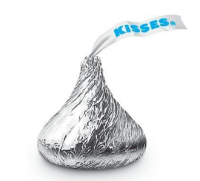
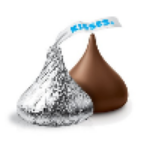
almost done

diff --git a/index.html b/index.html
@@ -28,9 +28,10 @@
         </div>
         <div class="navbar-collapse collapse">
             <ul class="nav navbar-nav navbar-right">
-                <li><a href="#header">home</a></li>
-                <li><a href="#services">Why shop at candy island?</a></li>
+                <li><a href="#header">Candy Island</a></li>
+                <li><a href="#services">Why shop at Candy Island?</a></li>
                 <li><a href="#pricing">Shop our candy</a></li>
+                <li><a href="#gifts">Need a gift?</a></li>
                 <li><a href="#team">Meet our team</a></li>
                 <li><a href="#client">Trusted by</a></li>
                 <li><a href="#contact">Contact us</a></li>
@@ -57,7 +58,7 @@
  
  <div id="services" class="services">
      <div class="container">
-         <h2>Why shop at candy island?</h2>
+         <h2>Why shop at Candy Island?</h2>
          <p></p>
          <div class="row">
              <div class="col-lg-3 col-md-3">
@@ -90,36 +91,72 @@
  
 <div id="pricing" class="pricing">
     <div class="container">
+        <div class="row"> 
         <h1>Shop our candy</h1>
-            <p1> There is simply too much candy to price each individually:</p1>
-            <p2>All pieces are $0.50!</p2>
-        <div class="row">
-           
-            <div class="col-lg-3 col-md-3 wow flipInY" data-wow-delay="0.8s">
+            <p> There is simply too much candy to price each individually:<br>All pieces are $0.50!</br></p>
+            <div class="col-lg-3 col-md-3 wow flipInY" data-wow-delay="1.6s">
                 <div class="packages">
                     <h4>Hershey's kisses</h4>
+                    <img src='hersheys kisses.jpg' class="img-square" alt="">
+                   <ul>
+                      <li>description</li>
+                      <li>description</li>
+                      <li>description</li>
+                    </ul>
+                <div>
                     <button class="btn btn-success">buy</button>
                 </div>
+                </div>
             </div>
-            <div class="col-lg-3 col-md-3 wow flipInY" data-wow-delay="1.2s">
+            <div class="col-lg-3 col-md-3 wow flipInY" data-wow-delay="1.6s">
                 <div class="packages">
-                    <h4>Hershey's</h4>
+                    <h4>Hershey's Fun Size</h4>
+                    <img='' class="img-square">
+                    <ul>
+                      <li>description</li>
+                      <li>description</li>
+                      <li>description</li>
+                    </ul>
+                <div>
                     <button class="btn btn-success">buy</button>
+                </div>
+                </div>
+            </div>
+             <div class="col-lg-3 col-md-3 wow flipInY" data-wow-delay="1.6s">
+                <div class="packages">
+                    <h4>Dairy Milk</h4>
+                    <ul>
+                      <li>description</li>
+                      <li>description</li>
+                      <li>description</li>
+                    </ul>
+                <div>
+                    <button class="btn btn-success">buy</button>
+                </div>
+                </div>
             </div>
             <div class="col-lg-3 col-md-3 wow flipInY" data-wow-delay="1.6s">
                 <div class="packages">
                     <h4>Milky Way Bites</h4>
+                     <img="" class="img-square">
+                     <ul>
+                      <li>description</li>
+                      <li>description</li>
+                      <li>description</li>
+                    </ul>
+                <div>
                     <button class="btn btn-success">buy</button>
                 </div>
+                    
+                </div>
             </div>
-            
         </div>
     </div>
 </div>
  
  <!--- End Pricing ---->
  <!--- Gifts ---->
- <div id="pricing" class="pricing">
+ <div id="gifts" class="gifts">
     <div class="container">
         <div class="row">
             <h2>Need A Gift?</h2>
@@ -162,13 +199,13 @@
     <div class="container">
         <div class="row">
             <h2>Meet our team</h2>
-            <p>Lorem Ipsum passages, and more recently with desktop publishing software</p>
+            <p></p>
 
             <div class="col-lg-3 col-md-3">
-                <img src="https://raw.githubusercontent.com/hasratsabit/landing-page/master/images/team/team-1.jpg" class="img-circle" alt="">
-                <h4></h4>
-                <strong>CEO and Founder</strong>
-                <p>Lorem Ipsum passages, and more recently with desktop publishing software</p>
+                <img src='hispanic ceo and founder 2.JPG' class="img-circle" alt="">
+                <h4>Sofia Perez</h4>
+                <strong>Founder and CEO </strong>
+                <p></p>
                 <a href="#"><i class="fa fa-facebook" aria-hidden="true"></i></a>
                 <a href="#"><i class="fa fa-twitter" aria-hidden="true"></i></a>
                 <a href="#"><i class="fa fa-linkedin" aria-hidden="true"></i></a>
@@ -176,10 +213,10 @@
             </div>
 
             <div class="col-lg-3 col-md-3">
-                <img src="https://raw.githubusercontent.com/hasratsabit/landing-page/master/images/team/team-1.jpg" class="img-circle" alt="">
-                <h4> </h4>
-                <strong> </strong>
-                <p>Lorem Ipsum passages, and more recently with desktop publishing software</p>
+                <img src='coo.jpg' class="img-circle" alt="">
+                <h4>Daniel Chang</h4>
+                <strong> Chief Operating Officer </strong>
+                <p></p>
                 <a href="#"><i class="fa fa-facebook" aria-hidden="true"></i></a>
                 <a href="#"><i class="fa fa-twitter" aria-hidden="true"></i></a>
                 <a href="#"><i class="fa fa-linkedin" aria-hidden="true"></i></a>
@@ -187,10 +224,10 @@
             </div>
 
             <div class="col-lg-3 col-md-3">
-                <img src="https://raw.githubusercontent.com/hasratsabit/landing-page/master/images/team/team-1.jpg" class="img-circle" alt="">
-                <h4></h4>
-                <strong>CEO and Founder</strong>
-                <p>Lorem Ipsum passages, and more recently with desktop publishing software</p>
+                <img src='cfo.jpg' class="img-circle" alt="">
+                <h4>Tabeena Ahmed</h4>
+                <strong> Chief Financial Officer </strong>
+                <p></p>
                 <a href="#"><i class="fa fa-facebook" aria-hidden="true"></i></a>
                 <a href="#"><i class="fa fa-twitter" aria-hidden="true"></i></a>
                 <a href="#"><i class="fa fa-linkedin" aria-hidden="true"></i></a>
@@ -198,10 +235,10 @@
             </div>
 
             <div class="col-lg-3 col-md-3">
-                <img src="https://raw.githubusercontent.com/hasratsabit/landing-page/master/images/team/team-1.jpg" class="img-circle" alt="">
-                <h4>John Doe</h4>
-                <strong>CEO and Founder</strong>
-                <p>Lorem Ipsum passages, and more recently with desktop publishing software</p>
+                <img src='marketing manager.JPG' class="img-circle" alt="">
+                <h4>Jason Smith</h4>
+                <strong>Marketing Manager</strong>
+                <p></p>
                 <a href="#"><i class="fa fa-facebook" aria-hidden="true"></i></a>
                 <a href="#"><i class="fa fa-twitter" aria-hidden="true"></i></a>
                 <a href="#"><i class="fa fa-linkedin" aria-hidden="true"></i></a>
@@ -253,7 +290,7 @@
 <div id="contact" class="contact">
     <div class="container">
         <div class="row">
-            <h2>Contact</h2>
+            <h2>Contact us</h2>
             <p></p>
 
             <div class="col-lg-6 col-md-6">
@@ -283,14 +320,43 @@
 </div>
  
  <!-- End Contact -->
+ <!--Contact us-->
+ <div id="footer" class="footer">
+     <div class="container">
+         <div class="row">
+             <div class="col-lg-4 col-md-4">
+                 <h4>Contact Us</h4>
+                 <p><i class="fa fa-home" aria-hidden="true"></i> Planet Candy, 7836 Inverness Street ,Bay Shore, NY 11706</p>
+                 <p><i class="fa fa-phone" aria-hidden="true"></i> +1 (202) 555-0171 </p>
+                 <p><i class="fa fa-globe" aria-hidden="true"></i> contact@candy.com</p>
+             </div>
+             <div class="col-lg-4 col-md-4">
+                 <h4>About</h4>
+                 <p><i class="fa fa-square-o" aria-hidden="true"></i> About Us</p>
+                 <p><i class="fa fa-square-o" aria-hidden="true"></i> Privacy</p>
+                 <p><i class="fa fa-square-o" aria-hidden="true"></i> Terms & Conditions</p>
+             </div>
+             <div class="col-lg-4 col-md-4">
+                 <h4>Stay in touch</h4>
+                 <i class="social fa fa-facebook" aria-hidden="true"></i>
+                 <i class="social fa fa-twitter" aria-hidden="true"></i>
+                <i class="social fa fa-linkedin" aria-hidden="true"></i>
+                <i class="social fa fa-pinterest" aria-hidden="true"></i>
+                <i class="social fa fa-youtube" aria-hidden="true"></i>
+                <i class="social fa fa-github" aria-hidden="true"></i><br>
+                <input type="email" placeholder="Subscribe For Updates"><button class="btn btn-success">Subscribe</button>
+             </div>
+         </div>
+     </div>
+ </div>
+
  
-<!--- Questions ---->
-<div id="Questions" class="Questions">
-    <div class="container">
-        <div class="row">
-            <p> Planet Candy
-              7836 Inverness Street 
-               Bay Shore, NY 11706
-                contact@candy.com 
-                 (202) 555-0171</p>
-<!--- End questions ---->
+<!-- WOW.js -->
+  <script src="https://cdnjs.cloudflare.com/ajax/libs/wow/1.1.2/wow.min.js"></script>
+  <script>
+  new WOW().init(0.08);
+  </script>
+<!-- Bootstrap -->
+<script src="https://maxcdn.bootstrapcdn.com/bootstrap/3.3.7/js/bootstrap.min.js" integrity="sha384-Tc5IQib027qvyjSMfHjOMaLkfuWVxZxUPnCJA7l2mCWNIpG9mGCD8wGNIcPD7Txa" crossorigin="anonymous"></script>
+</body>
+</html>

diff --git a/style.css b/style.css
@@ -92,11 +92,11 @@ p {
     width: 100%;
     padding: 30px 0 30px;
     margin-top: 50px;
-    background: #16A085;
+    background: #a970a9;
     background-position: center center;
     background-repeat: no-repeat;
     background-size: cover;
-    color: #fff;
+    color: #4d004d;
 }
 
 
@@ -104,7 +104,7 @@ p {
     
     height: 350px;
     width: 450px;
-    margin: 70px 0 0 40px;
+    margin: 700px 0 0 40px;
 }
 
 .header h1 {
@@ -192,8 +192,8 @@ p {
     font-size: 30px;
     padding: 25px 20px;
     border-radius: 50%;
-    background-color: #6699cc;
-    color: #fff;
+    background-color: #b170ff;
+    color: #6699cc;
 }
 
 
@@ -212,7 +212,7 @@ p {
     
     padding: 50px 0 80px;
     text-align: center;
-    background-color: #3399ff;
+    background-color: #b1ffdc;
 }
 
 .pricing p {
@@ -282,6 +282,7 @@ p {
     
     padding: 50px 0 80px;
     text-align: center;
+    background color:#ffffdc;
 }
 
 .team strong,
@@ -289,13 +290,13 @@ p {
 .team h4 {
     
     margin: 20px 0 20px;
-    color: #4c4c4c;
+    color: #4c;
 }
 
 
 .team p {
     
-    color: #737373;
+    color: #;
 }
 
 .team img {
@@ -313,8 +314,8 @@ p {
     padding: 5px;
     font-size: 17px;
     border-radius: 50%;
-    background-color: #a0db8e;
-    color: #fff;
+    background-color: #3300ff;
+    color: #780;
 }
 
 .team a:hover i {
@@ -328,14 +329,14 @@ p {
 .clients {
     
     padding: 50px 0 80px;
-    background-color: #3399ff;
+    background-color: #a3aeff;
     text-align: center;
-    color: #fff;
+    color: #6500ff;
 }
 
 .client h2 {
     
-    color: #5e5e5e;
+    color: #0000ff;
 }
 
 .clients p {
@@ -370,7 +371,7 @@ p {
 .contact p {
     
     padding-bottom: 80px;
-    color: #737373;
+    color: #684fff;
 }
 
 .contact h2 {
